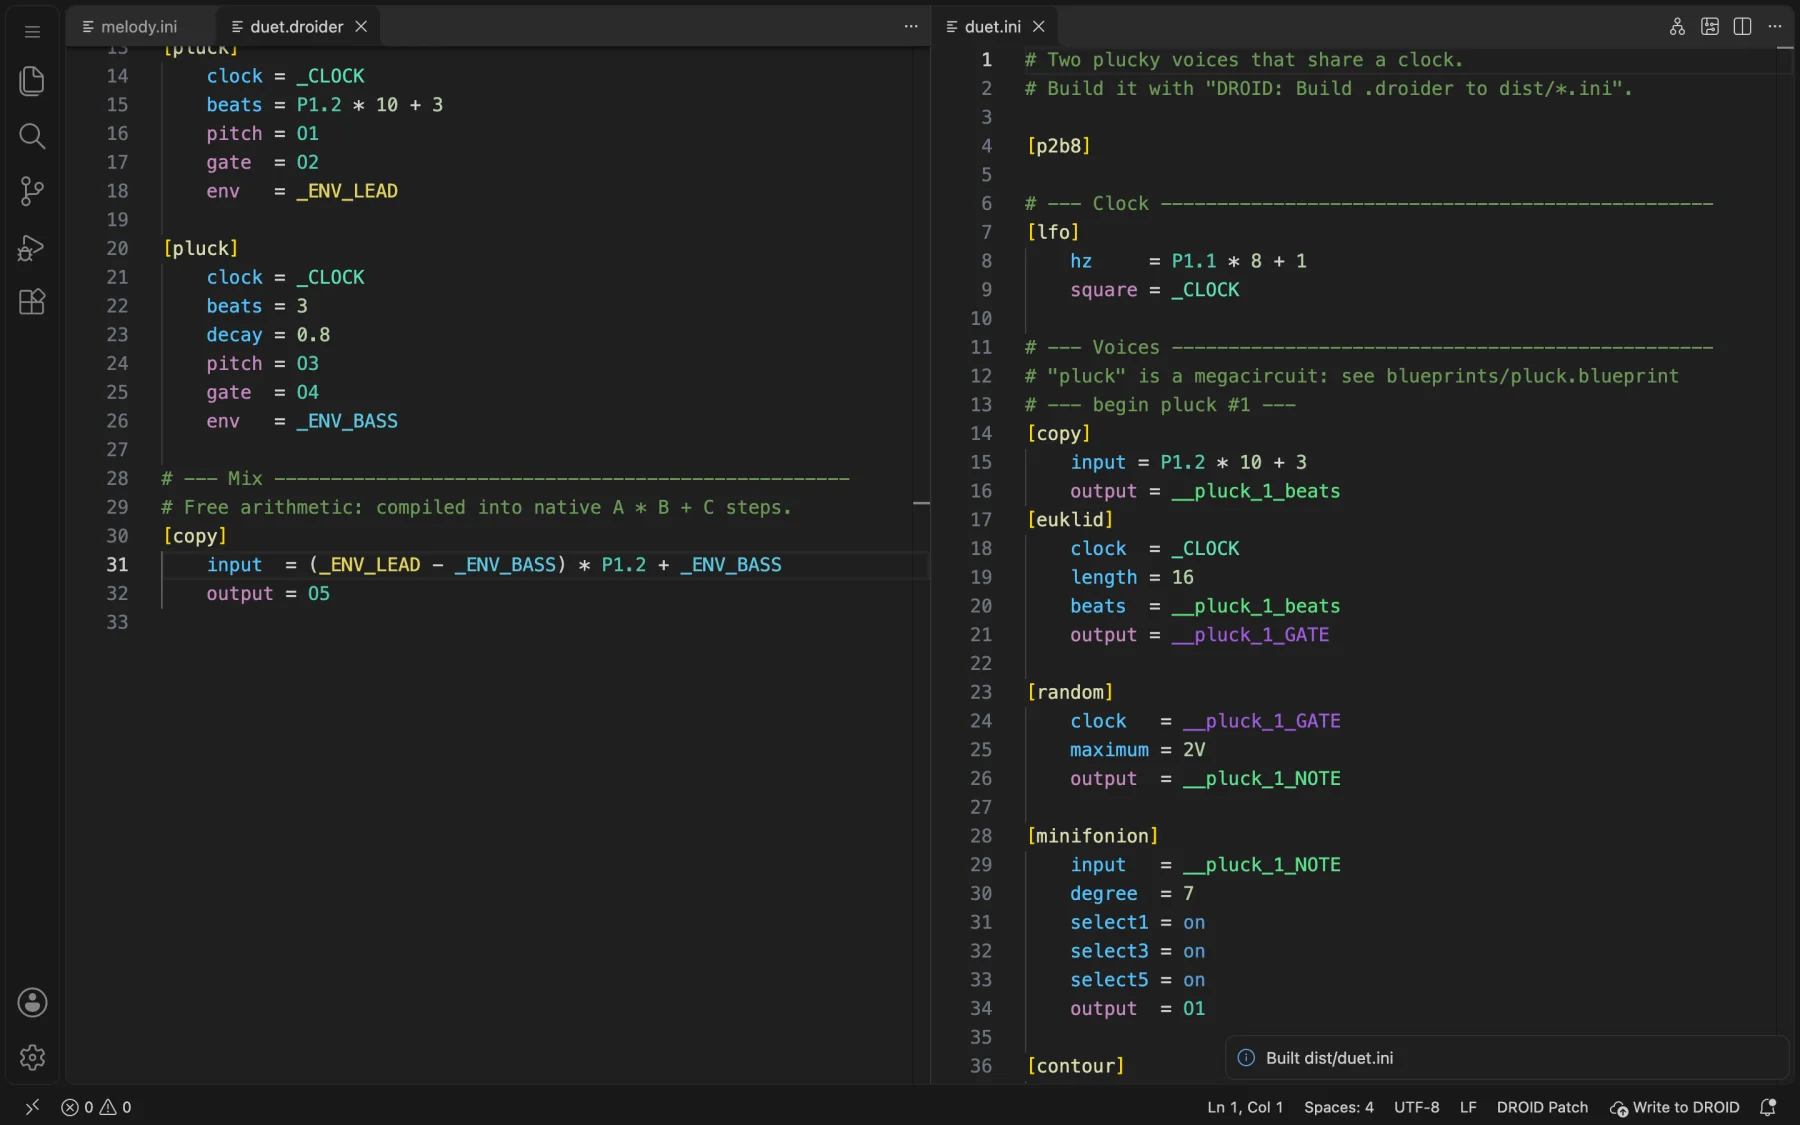
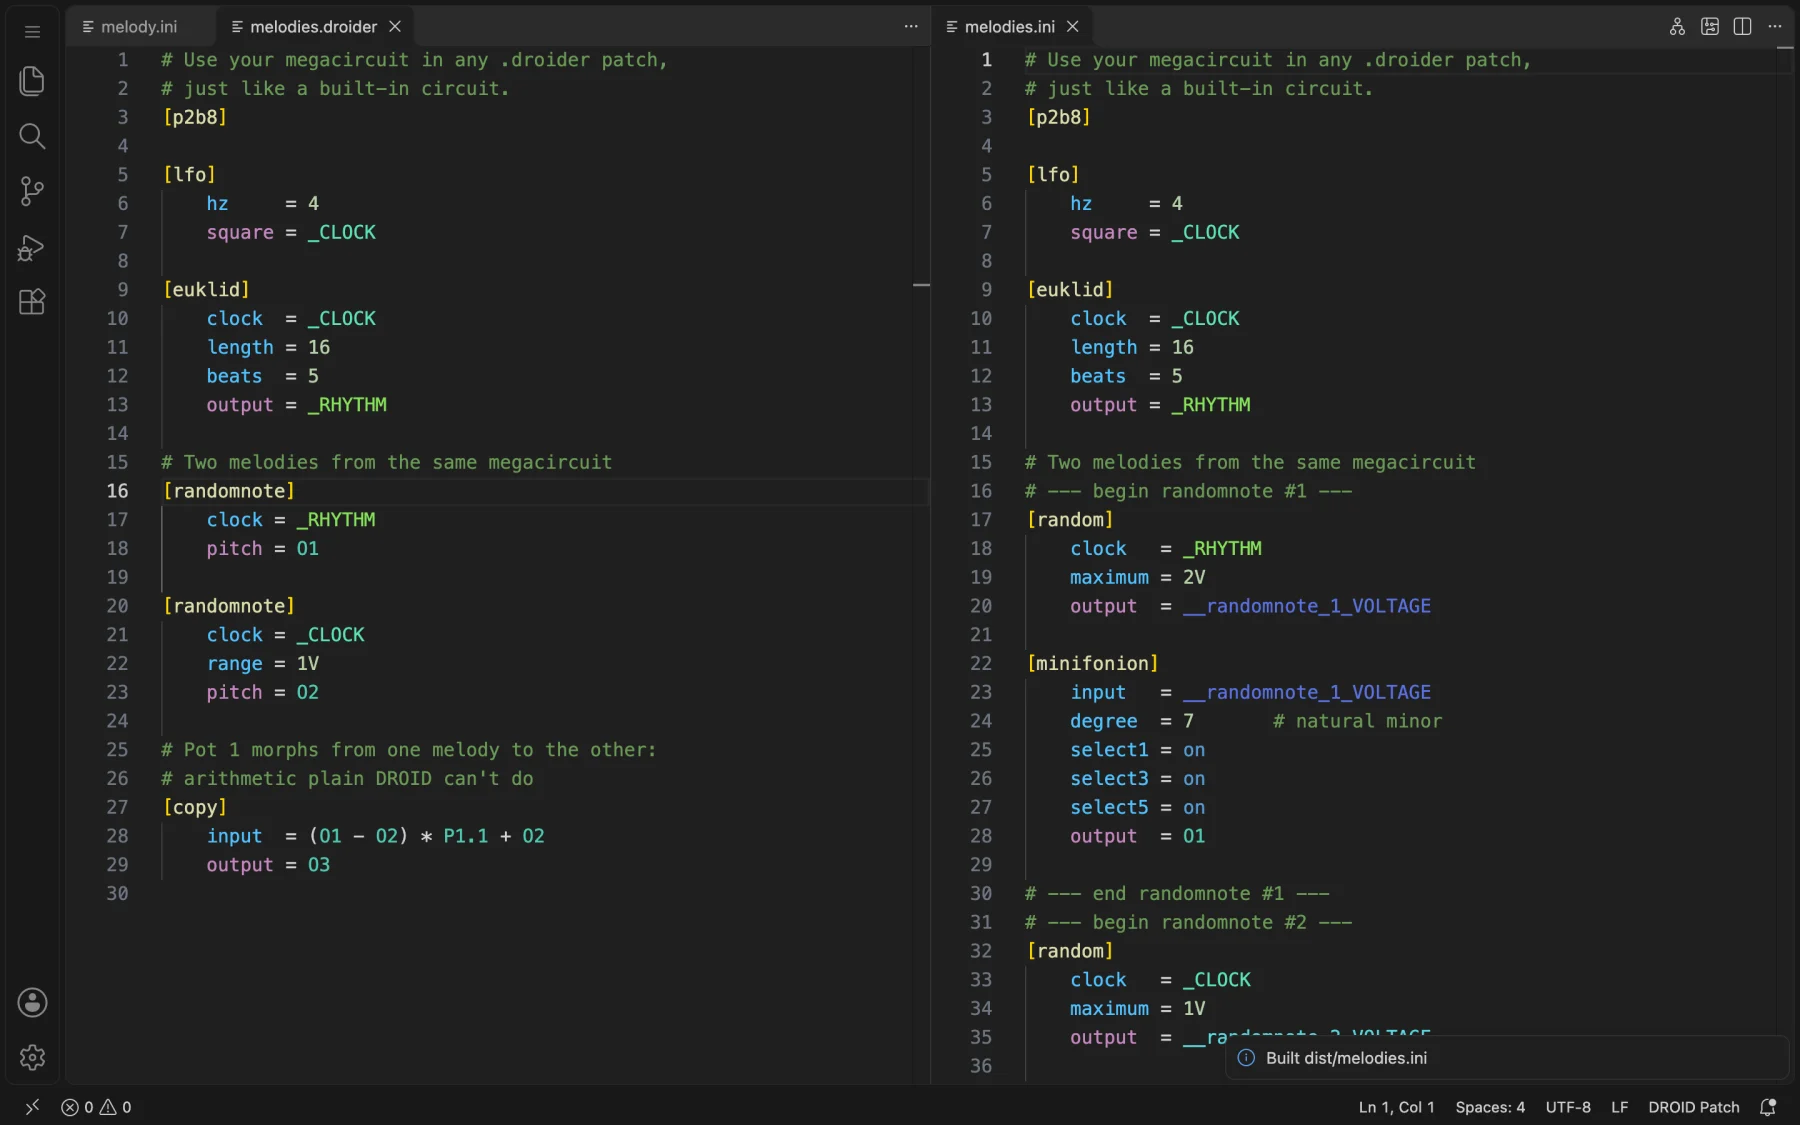
Teach megacircuits with the randomnote example
The guide's arithmetic, megacircuit and build sections and the README use
randomnote and melodies.droider, with fresh screenshots of the hover and
the build. The landing's tour heading drops its subtitle.

diff --git a/site/docs/index.html b/site/docs/index.html
@@ -491,111 +491,101 @@
           <h2>Free arithmetic</h2>
           <p>
             On the DROID, an input can only do <code>A * B + C</code>: one multiplication, then one addition. In a <code>.droider</code> file
-            you can write any expression with <code>+</code>, <code>-</code>, <code>*</code> and parentheses, on any input:
+            you can write any expression with <code>+</code>, <code>-</code>, <code>*</code> and parentheses, on any input.
+            For example, a pot that morphs between two melodies:
           </p>
-          <div class="code"><div class="code-title"><span>duet.droider</span></div><pre data-droid>[copy]
-    input  = (_ENV_LEAD - _ENV_BASS) * P1.2 + _ENV_BASS
-    output = O5</pre></div>
+          <div class="code"><div class="code-title"><span>melodies.droider</span></div><pre data-droid># Pot 1 morphs from O2 (left) to O1 (right)
+[copy]
+    input  = (O1 - O2) * P1.1 + O2
+    output = O3</pre></div>
           <p>When the patch is built, Droider splits the expression into as few <code>[copy]</code> circuits as possible, each one a valid <code>A * B + C</code>:</p>
-          <div class="code" data-nocopy><div class="code-title"><span>dist/duet.ini</span></div><pre data-droid>[copy]
-    input = _ENV_LEAD - _ENV_BASS
+          <div class="code" data-nocopy><div class="code-title"><span>dist/melodies.ini</span></div><pre data-droid>[copy]
+    input = O1 - O2
     output = _MATH1
 [copy]
-    input  = _MATH1 * P1.2 + _ENV_BASS
-    output = O5</pre></div>
+    input  = _MATH1 * P1.1 + O2
+    output = O3</pre></div>
           <p>The cables it creates are called <code>_MATH1</code>, <code>_MATH2</code>…, so you can tell them from yours. In the circuit graph the whole expression is shown as one formula.</p>
         </article>
 
         <article class="doc" id="megacircuits">
           <h2>Create a megacircuit</h2>
           <p>
-            A <strong>megacircuit</strong> is a piece of patch you can reuse like a circuit. You define it once in a <code>.blueprint</code> file,
-            and the file's name becomes the circuit's name: <code>pluck.blueprint</code> defines <code>[pluck]</code>.
+            A <strong>megacircuit</strong> is your own reusable circuit: a few circuits wired together, with named inputs and outputs, that you
+            can then use in any patch like a built-in one. You define it once in a <code>.blueprint</code> file, and the file's name becomes
+            the circuit's name: <code>randomnote.blueprint</code> defines <code>[randomnote]</code>.
           </p>
+          <p>Let's make one that plays a random note in C minor on every clock, so you can add a melody to any patch with four lines.</p>
           <ol class="steps">
-            <li>Create a file anywhere in your open folder, for example <code>blueprints/pluck.blueprint</code>.</li>
+            <li>Create a file anywhere in your open folder, for example <code>blueprints/randomnote.blueprint</code>.</li>
             <li>
-              Describe it in a comment at the top, then list its <strong>inputs</strong> and <strong>outputs</strong>. A comment just above a port documents it. An input with <code>= value</code> has a default and is optional; one without it must be wired.
-              <div class="code"><div class="code-title"><span>blueprints/pluck.blueprint</span></div><pre data-droid># A plucky voice: Euclidean gates, a random note snapped
-# to C minor and a short decay envelope.
-
-[input]
-    # the clock to follow
-    clock
-    # how many of the 16 steps play
-    beats = 5
-    # envelope decay time
-    decay = 0.25
-
-[output]
-    # melody, 1 V/oct
-    pitch
-    # one gate per note
-    gate
-    # the plucky envelope
-    env</pre></div>
+              Describe it in a comment at the top. Droider shows that comment when you hover the megacircuit.
+              <div class="code"><div class="code-title"><span>blueprints/randomnote.blueprint</span></div><pre data-droid># A megacircuit is your own reusable circuit.
+# This file defines [randomnote]: a random note in C minor on every clock.</pre></div>
             </li>
             <li>
-              Write the body with ordinary circuits. Refer to the ports by their bare names (<code>clock</code>, <code>pitch</code>), and use <code>_cables</code> for internal wiring:
-              <div class="code"><div class="code-title"><span>blueprints/pluck.blueprint (continued)</span></div><pre data-droid>[euklid]
-    clock  = clock
-    length = 16
-    beats  = beats
-    output = _GATE
+              List its <strong>inputs</strong> and <strong>outputs</strong>. A comment just above a port documents it. An input with <code>= value</code> has a default and is optional; one without it must always be wired.
+              <div class="code"><div class="code-title"><span>blueprints/randomnote.blueprint (continued)</span></div><pre data-droid>[input]
+    # a new note on each clock
+    clock
+    # how far the melody can jump (1V = one octave)
+    range = 2V
 
+[output]
+    # the note, 1 V/oct
+    pitch</pre></div>
+            </li>
+            <li>
+              Write the body with ordinary circuits. Refer to the ports by their bare names (<code>clock</code>, <code>range</code>, <code>pitch</code>), and use <code>_cables</code> for the wiring inside:
+              <div class="code"><div class="code-title"><span>blueprints/randomnote.blueprint (continued)</span></div><pre data-droid># a random voltage on every clock…
 [random]
-    clock   = _GATE
-    maximum = 2V
-    output  = _NOTE
+    clock   = clock
+    maximum = range
+    output  = _VOLTAGE
 
+# …snapped to the notes of C minor
 [minifonion]
-    input   = _NOTE
-    degree  = 7
+    input   = _VOLTAGE
+    degree  = 7       # natural minor
     select1 = on
     select3 = on
     select5 = on
-    output  = pitch
-
-[contour]
-    trigger = _GATE
-    attack  = 0.01
-    decay   = decay
-    sustain = 0
-    output  = env
-
-[copy]
-    input  = _GATE
-    output = gate</pre></div>
+    output  = pitch</pre></div>
             </li>
           </ol>
-          <p>Droider checks the blueprint like any patch, and also warns about inputs you never use. Cables inside a blueprint are private: two copies of the megacircuit never share them. A blueprint can use other megacircuits too, as deep as you like.</p>
+          <p>Droider checks the blueprint like any patch, and also warns about inputs you never use. Cables inside a blueprint are private: every copy of the megacircuit gets its own, so two copies never interfere. A blueprint can also use other megacircuits, as deep as you like.</p>
         </article>
 
         <article class="doc" id="use-megacircuit">
           <h2>Use a megacircuit</h2>
-          <p>In any <code>.droider</code> patch in the same folder, the megacircuit works like a built-in circuit: it autocompletes, shows its documentation on hover and is checked.</p>
-          <div class="code"><div class="code-title"><span>duet.droider</span></div><pre data-droid data-mega="pluck:pitch,gate,env">[p2b8]
+          <p>In any <code>.droider</code> patch in the same folder, the megacircuit works like a built-in circuit: it autocompletes after <kbd>[</kbd>, shows its documentation on hover and is checked. Here it gives a patch two melodies:</p>
+          <div class="code"><div class="code-title"><span>melodies.droider</span></div><pre data-droid data-mega="randomnote:pitch"># Use your megacircuit in any .droider patch,
+# just like a built-in circuit.
+[p2b8]
 
 [lfo]
-    hz     = P1.1 * 8 + 1
+    hz     = 4
     square = _CLOCK
 
-[pluck]
-    clock = _CLOCK
-    beats = P1.2 * 10 + 3
-    pitch = O1
-    gate  = O2
-    env   = _ENV_LEAD
+[euklid]
+    clock  = _CLOCK
+    length = 16
+    beats  = 5
+    output = _RHYTHM
 
-# a second, slower voice: decay overrides its default
-[pluck]
+# Two melodies from the same megacircuit
+[randomnote]
+    clock = _RHYTHM
+    pitch = O1
+
+# this one moves on every clock, within one octave
+[randomnote]
     clock = _CLOCK
-    beats = 3
-    decay = 0.8
-    pitch = O3
-    gate  = O4
-    env   = _ENV_BASS</pre></div>
-          <figure><div class="window"><img src="../assets/screens/hover-megacircuit.webp" width="1800" height="1125" alt="Hovering a megacircuit shows its description, inputs with defaults and outputs" loading="lazy" /></div><figcaption>Hover a megacircuit to see its description and ports.</figcaption></figure>
+    range = 1V
+    pitch = O2</pre></div>
+          <p>The first copy leaves out <code>range</code>, so it uses the default <code>2V</code>. The second one sets it.</p>
+          <figure><div class="window"><img src="../assets/screens/hover-megacircuit.webp" width="1800" height="1125" alt="Hovering [randomnote] shows its description, its inputs with defaults and its outputs" loading="lazy" /></div><figcaption>Hover a megacircuit to see its description and ports.</figcaption></figure>
+          <p>The complete files are in <a href="https://github.com/OliverLSanz/droider/tree/main/examples">examples/</a>: <code>melodies.droider</code> and <code>blueprints/randomnote.blueprint</code>.</p>
         </article>
 
         <article class="doc" id="build">
@@ -606,8 +596,8 @@
             <li>Click the <strong>package</strong> icon at the top right of the editor, or <strong>Build to dist</strong> in the status bar (shown when no card is inserted), or run <strong>DROID: Build .droider to dist/*.ini</strong>.</li>
             <li>Droider writes <code>dist/&lt;name&gt;.ini</code> in your folder and tells you if the result has errors.</li>
           </ol>
-          <figure><div class="window"><img src="../assets/screens/build.webp" width="1800" height="1125" alt="duet.droider next to the built dist/duet.ini, where each megacircuit is expanded" loading="lazy" /></div><figcaption>The built patch: each megacircuit is replaced by its circuits, with comments marking where each copy starts.</figcaption></figure>
-          <p>During the build, private cables are renamed for each copy (<code>_GATE</code> in the second <code>[pluck]</code> becomes <code>__pluck_2_GATE</code>). Arithmetic is split into <code>[copy]</code> circuits. If a line ends up longer than the DROID's 63 characters, cable names are shortened, and comments in the output list the short names. The built patch is checked again before it can be written to a card.</p>
+          <figure><div class="window"><img src="../assets/screens/build.webp" width="1800" height="1125" alt="melodies.droider next to the built dist/melodies.ini, where each megacircuit is expanded" loading="lazy" /></div><figcaption>The built patch: each megacircuit is replaced by its circuits, with comments marking where each copy starts.</figcaption></figure>
+          <p>During the build, private cables are renamed for each copy: <code>_VOLTAGE</code> in the first <code>[randomnote]</code> becomes <code>__randomnote_1_VOLTAGE</code>, and in the second one <code>__randomnote_2_VOLTAGE</code>. Arithmetic is split into <code>[copy]</code> circuits. If a line ends up longer than the DROID's 63 characters, cable names are shortened, and comments in the output list the short names. The built patch is checked again before it can be written to a card.</p>
         </article>
 
         <!-- ============ REFERENCE ============ -->

diff --git a/site/index.html b/site/index.html
@@ -115,7 +115,6 @@
           <div class="section-head reveal">
             <span class="kicker">Video tour</span>
             <h2>See it in action.</h2>
-            <p>One minute, with sound.</p>
           </div>
           <div class="tour-player glow reveal" data-tour>
             <video controls preload="none" playsinline width="1920" height="1080" poster="assets/video/tour-poster.webp">

diff --git a/site/assets/site.js b/site/assets/site.js
@@ -28,7 +28,7 @@
   }
   function span(cls, text) { return '<span class="' + cls + '">' + esc(text) + "</span>"; }
 
-  // Ports of megacircuits used on the page: data-mega="pluck:pitch,gate,env;mix2:out"
+  // Ports of megacircuits used on the page: data-mega="randomnote:pitch;mix2:out"
   function parseMega(attr) {
     var map = {};
     (attr || "").split(";").forEach(function (part) {

diff --git a/README.md b/README.md
@@ -63,39 +63,47 @@ writing your first patch. For Cursor, VSCodium and other VS Code-based editors, 
 
 ## A taste of `.droider`
 
-A megacircuit is a piece of patch you define once and reuse like any circuit:
+A megacircuit is your own reusable circuit: define it once in a `.blueprint` file, then use it in any `.droider`
+patch like a built-in circuit.
 
 ```ini
-# blueprints/pluck.blueprint — a plucky voice
+# blueprints/randomnote.blueprint
+# A megacircuit is your own reusable circuit.
+# This file defines [randomnote]: a random note in C minor on every clock.
 [input]
     clock
-    beats = 5          # inputs with a default are optional
-    decay = 0.25
+    range = 2V         # inputs with a default are optional
 [output]
     pitch
-    gate
-    env
 
-[euklid]
-    clock  = clock
-    length = 16
-    beats  = beats
-    output = _GATE     # private: each copy gets its own cable
-# ...
+[random]
+    clock   = clock
+    maximum = range
+    output  = _VOLTAGE # private: each copy gets its own cable
+
+[minifonion]
+    input   = _VOLTAGE
+    degree  = 7        # natural minor
+    select1 = on
+    select3 = on
+    select5 = on
+    output  = pitch
 ```
 
 ```ini
-# duet.droider
-[pluck]
-    clock = _CLOCK
-    beats = P1.2 * 10 + 3
+# melodies.droider: use your megacircuit like any other circuit
+[randomnote]
+    clock = _RHYTHM
     pitch = O1
-    gate  = O2
-    env   = _ENV_LEAD
 
-[copy]  # any arithmetic, not just A * B + C
-    input  = (_ENV_LEAD - _ENV_BASS) * P1.2 + _ENV_BASS
-    output = O5
+[randomnote]
+    clock = _CLOCK
+    range = 1V
+    pitch = O2
+
+[copy]  # any arithmetic, not just A * B + C: pot 1 morphs between the melodies
+    input  = (O1 - O2) * P1.1 + O2
+    output = O3
 ```
 
 Droider expands megacircuits, splits the arithmetic into native `[copy]` circuits and checks the resulting plain `.ini`
